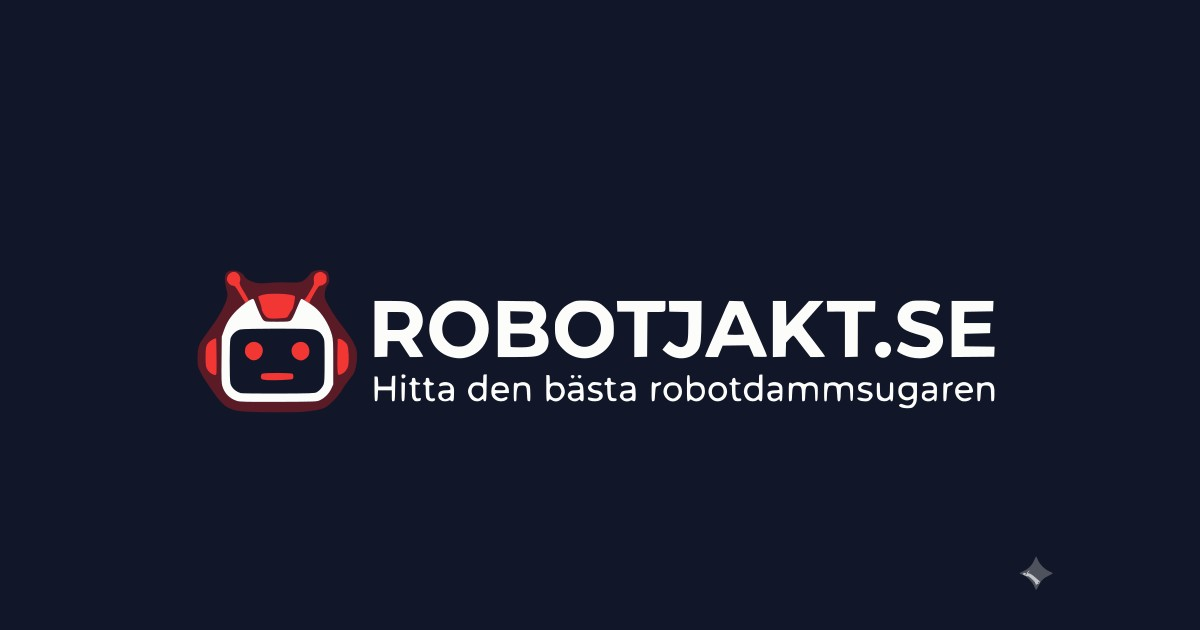
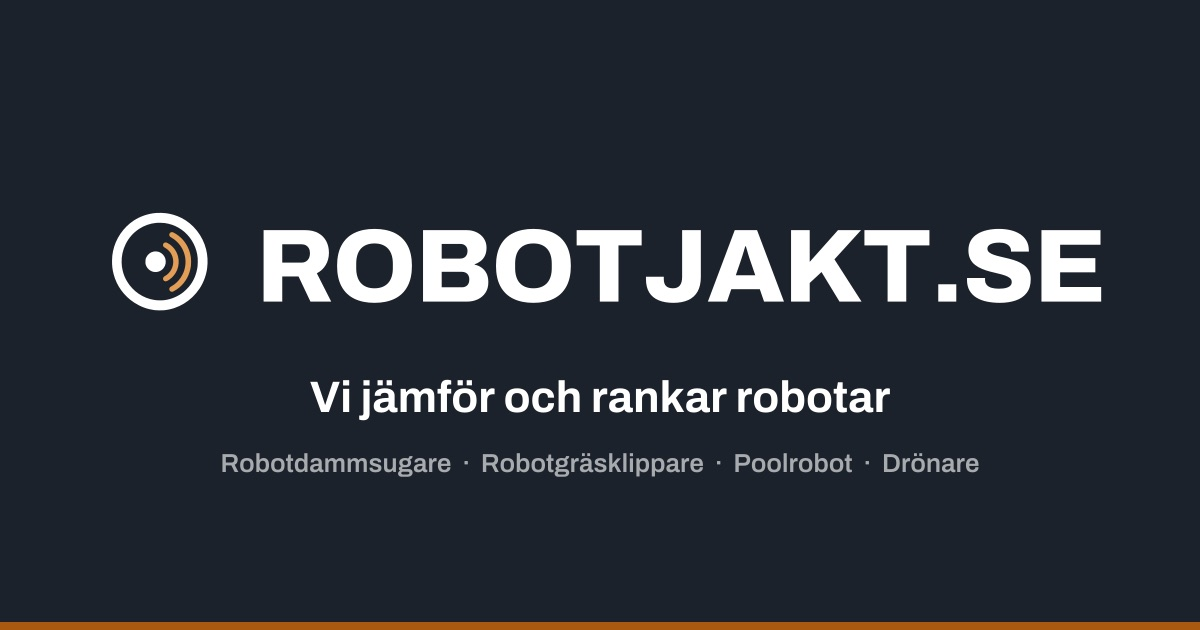
OG-bild och alla ikonstorlekar omgjorda fran nya loggan
Gamla og-default (1200x630) visade den roda robotloggan, taglinen "Hitta
den basta robotdammsugaren" som inte langre stammer, gamla bakgrundsfargen
#111827 och en inbakad AI-glitterartefakt nere till hoger. Den var det
enda som fortfarande visade den gamla identiteten utat, och det ar just
den bilden som syns nar nagon delar en lank.

Ny og-default byggd ur samma vektor som logotypen, med Archivo-glyfer
(scripts/build-og.py): grafitbakgrund, market plus wordmark, "Vi jamfor
och rankar robotar" och de fyra kategorierna, kopparlinje i botten.
62 KB jpg / 19 KB webp.

Kompletterade ikonuppsattningen:
- favicon-16x16 och favicon-48x48 (fanns inte), inkopplade i head
- icon-512-maskable med 14 % extra marginal, sa Android kan beskara utan
  att klippa i market. Manifestet pekade tidigare maskable pa den
  vanliga icon-512, som da beskars fel.
- theme-color-meta i head (fanns bara i manifestet)

BUGG som ratades pa vagen: og:image och twitter:image emitterades som
rot-relativ path ("/og-default.jpg"). Facebook, LinkedIn och X hamtar
bilden fran sin egen server och kan inte resolva en relativ path, sa alla
delade lankar fick tom forhandsvisning. Nu absolut URL, plus
og:image:width/height/alt. Verifierat: 0 relativa og:image kvar i dist.

Bygge gront (155 sidor), seo-audit 0 fel 0 varningar, quality-gate
godkand. Alla 14 bildresurser svarar 200 i preview. EJ pushat.

diff --git a/scripts/build-og.py b/scripts/build-og.py
@@ -1,0 +1,140 @@
+#!/usr/bin/env python3
+"""
+Bygger robotjakts OG-bild och resterande ikonstorlekar från den nya logotypen.
+
+Texten sätts som exakta Archivo-glyfkonturer (samma teknik som logotypen), så
+OG-bilden renderar identiskt oavsett vilka fonter som finns på maskinen som
+bygger den. Ingen <text> och ingen rasterlogga inbäddad.
+"""
+import json
+import re
+import subprocess
+from pathlib import Path
+
+from fontTools.pens.svgPathPen import SVGPathPen
+from fontTools.ttLib import TTFont
+from fontTools.varLib import instancer
+
+WORK = Path('/tmp/rj-logo')
+GRAFIT = '#1B222B'
+GRAFIT_DJUP = '#11161E'
+KOPPAR = '#AA5910'
+KOPPAR_LJUS = '#E29D56'
+
+W, H = 1200, 630
+
+
+def glyphs(text: str, weight: int):
+    font = instancer.instantiateVariableFont(TTFont(WORK / 'archivo.ttf'),
+                                             {'wght': weight, 'wdth': 100})
+    gs = font.getGlyphSet()
+    cmap = font.getBestCmap()
+    out, x = [], 0.0
+    for ch in text:
+        gname = cmap.get(ord(ch))
+        if gname is None:
+            continue
+        pen = SVGPathPen(gs)
+        gs[gname].draw(pen)
+        out.append({'d': pen.getCommands(), 'x': x, 'adv': gs[gname].width})
+        x += gs[gname].width
+    return {'upem': font['head'].unitsPerEm, 'glyphs': out, 'width': x}
+
+
+def place(spec, size, x0, baseline, tracking=0.0, fill='#fff'):
+    k = size / spec['upem']
+    parts, x = [], x0
+    for g in spec['glyphs']:
+        if g['d'].strip():
+            parts.append(f'<path transform="translate({x:.2f} {baseline:.2f}) '
+                         f'scale({k:.6f} {-k:.6f})" d="{g["d"]}" fill="{fill}"/>')
+        x += g['adv'] * k + tracking
+    return ''.join(parts), x - x0 - tracking
+
+
+def text_width(spec, size, tracking=0.0):
+    return spec['width'] * size / spec['upem'] + tracking * (len(spec['glyphs']) - 1)
+
+
+def main():
+    # Märket, återanvänt ur den byggda ikonen (samma vektor som logotypen)
+    icon = (WORK / 'logo-icon.svg').read_text()
+    ptr = re.search(r'<g transform="([^"]+)"', icon).group(1)
+    vb = re.search(r'viewBox="0 0 ([\d.]+) ([\d.]+)"', icon)
+    ivw, ivh = float(vb.group(1)), float(vb.group(2))
+    grafit_paths = re.search(r'<g fill="#1B222B">(.*?)</g>', icon, re.S).group(1)
+    koppar_paths = re.search(r'<g fill="#AA5910">(.*?)</g>', icon, re.S).group(1)
+
+    wm = glyphs('ROBOTJAKT.SE', 800)
+    rad = glyphs('Vi jämför och rankar robotar', 700)
+    kat = glyphs('Robotdammsugare  ·  Robotgräsklippare  ·  Poolrobot  ·  Drönare', 600)
+
+    # Låsning centrerad horisontellt: märke + wordmark som en enhet
+    MARK = 132.0
+    GAP = 30.0
+    WM = 104.0
+    wm_w = text_width(wm, WM, -1.4)
+    lock_w = MARK + GAP + wm_w
+    lock_x = (W - lock_w) / 2
+    lock_y = 196.0                      # märkets övre kant
+
+    RAD = 44.0
+    KAT = 26.0
+    rad_w = text_width(rad, RAD, 0)
+    kat_w = text_width(kat, KAT, 0)
+
+    mark_scale = MARK / ivh
+    parts = [
+        f'<svg xmlns="http://www.w3.org/2000/svg" width="{W}" height="{H}" viewBox="0 0 {W} {H}">',
+        f'<rect width="{W}" height="{H}" fill="{GRAFIT}"/>',
+        # Lugn kopparaccent: en tunn linje i botten, inget dekorativt brus
+        f'<rect x="0" y="{H-8}" width="{W}" height="8" fill="{KOPPAR}"/>',
+        # Märket
+        f'<g transform="translate({lock_x:.2f} {lock_y:.2f}) scale({mark_scale:.6f})">',
+        f'<g transform="{ptr}">',
+        f'<g fill="#FFFFFF">{grafit_paths}</g>',
+        f'<g fill="{KOPPAR_LJUS}">{koppar_paths}</g>',
+        '</g></g>',
+    ]
+    wm_paths, _ = place(wm, WM, lock_x + MARK + GAP, lock_y + MARK * 0.80, -1.4, '#FFFFFF')
+    parts.append(wm_paths)
+
+    rad_paths, _ = place(rad, RAD, (W - rad_w) / 2, 412.0, 0, '#FFFFFF')
+    parts.append(rad_paths)
+
+    kat_paths, _ = place(kat, KAT, (W - kat_w) / 2, 472.0, 0, 'rgba(255,255,255,0.62)')
+    parts.append(kat_paths)
+
+    parts.append('</svg>')
+    svg = WORK / 'og-default.svg'
+    svg.write_text(''.join(parts))
+    print(f'og-default.svg: {svg.stat().st_size // 1024} KB, låsbredd {lock_w:.0f} px')
+
+    subprocess.run(['rsvg-convert', '-w', str(W), '-h', str(H), str(svg),
+                    '-o', str(WORK / 'og-default.png')], check=True)
+    # JPG för maximal plattformskompatibilitet, WebP för storlek
+    subprocess.run(['sips', '-s', 'format', 'jpeg', '-s', 'formatOptions', '82',
+                    str(WORK / 'og-default.png'), '--out', str(WORK / 'og-default.jpg')],
+                   check=True, capture_output=True)
+    subprocess.run(['cwebp', '-q', '86', str(WORK / 'og-default.png'),
+                    '-o', str(WORK / 'og-default.webp')], check=True, capture_output=True)
+    for f in ('og-default.png', 'og-default.jpg', 'og-default.webp'):
+        print(f'  {f}: {(WORK / f).stat().st_size // 1024} KB')
+
+    # Resterande ikonstorlekar
+    tile = WORK / 'logo-icon-tile.svg'
+    for size, name in ((16, 'favicon-16x16.png'), (48, 'favicon-48x48.png')):
+        subprocess.run(['rsvg-convert', '-w', str(size), '-b', 'white',
+                        str(WORK / 'logo-icon.svg'), '-o', str(WORK / name)], check=True)
+        print(f'  {name}: {(WORK / name).stat().st_size} B')
+    # Maskable: extra marginal så Android kan beskära utan att klippa märket
+    m = tile.read_text().replace(f'viewBox="0 0 {ivw:.0f} {ivh:.0f}"',
+                                 f'viewBox="{-ivw*0.14:.0f} {-ivh*0.14:.0f} {ivw*1.28:.0f} {ivh*1.28:.0f}"')
+    (WORK / 'logo-icon-maskable.svg').write_text(m)
+    subprocess.run(['rsvg-convert', '-w', '512', str(WORK / 'logo-icon-maskable.svg'),
+                    '-o', str(WORK / 'icon-512-maskable.png')], check=True)
+    print(f'  icon-512-maskable.png: {(WORK / "icon-512-maskable.png").stat().st_size // 1024} KB')
+
+
+if __name__ == '__main__':
+    main()
